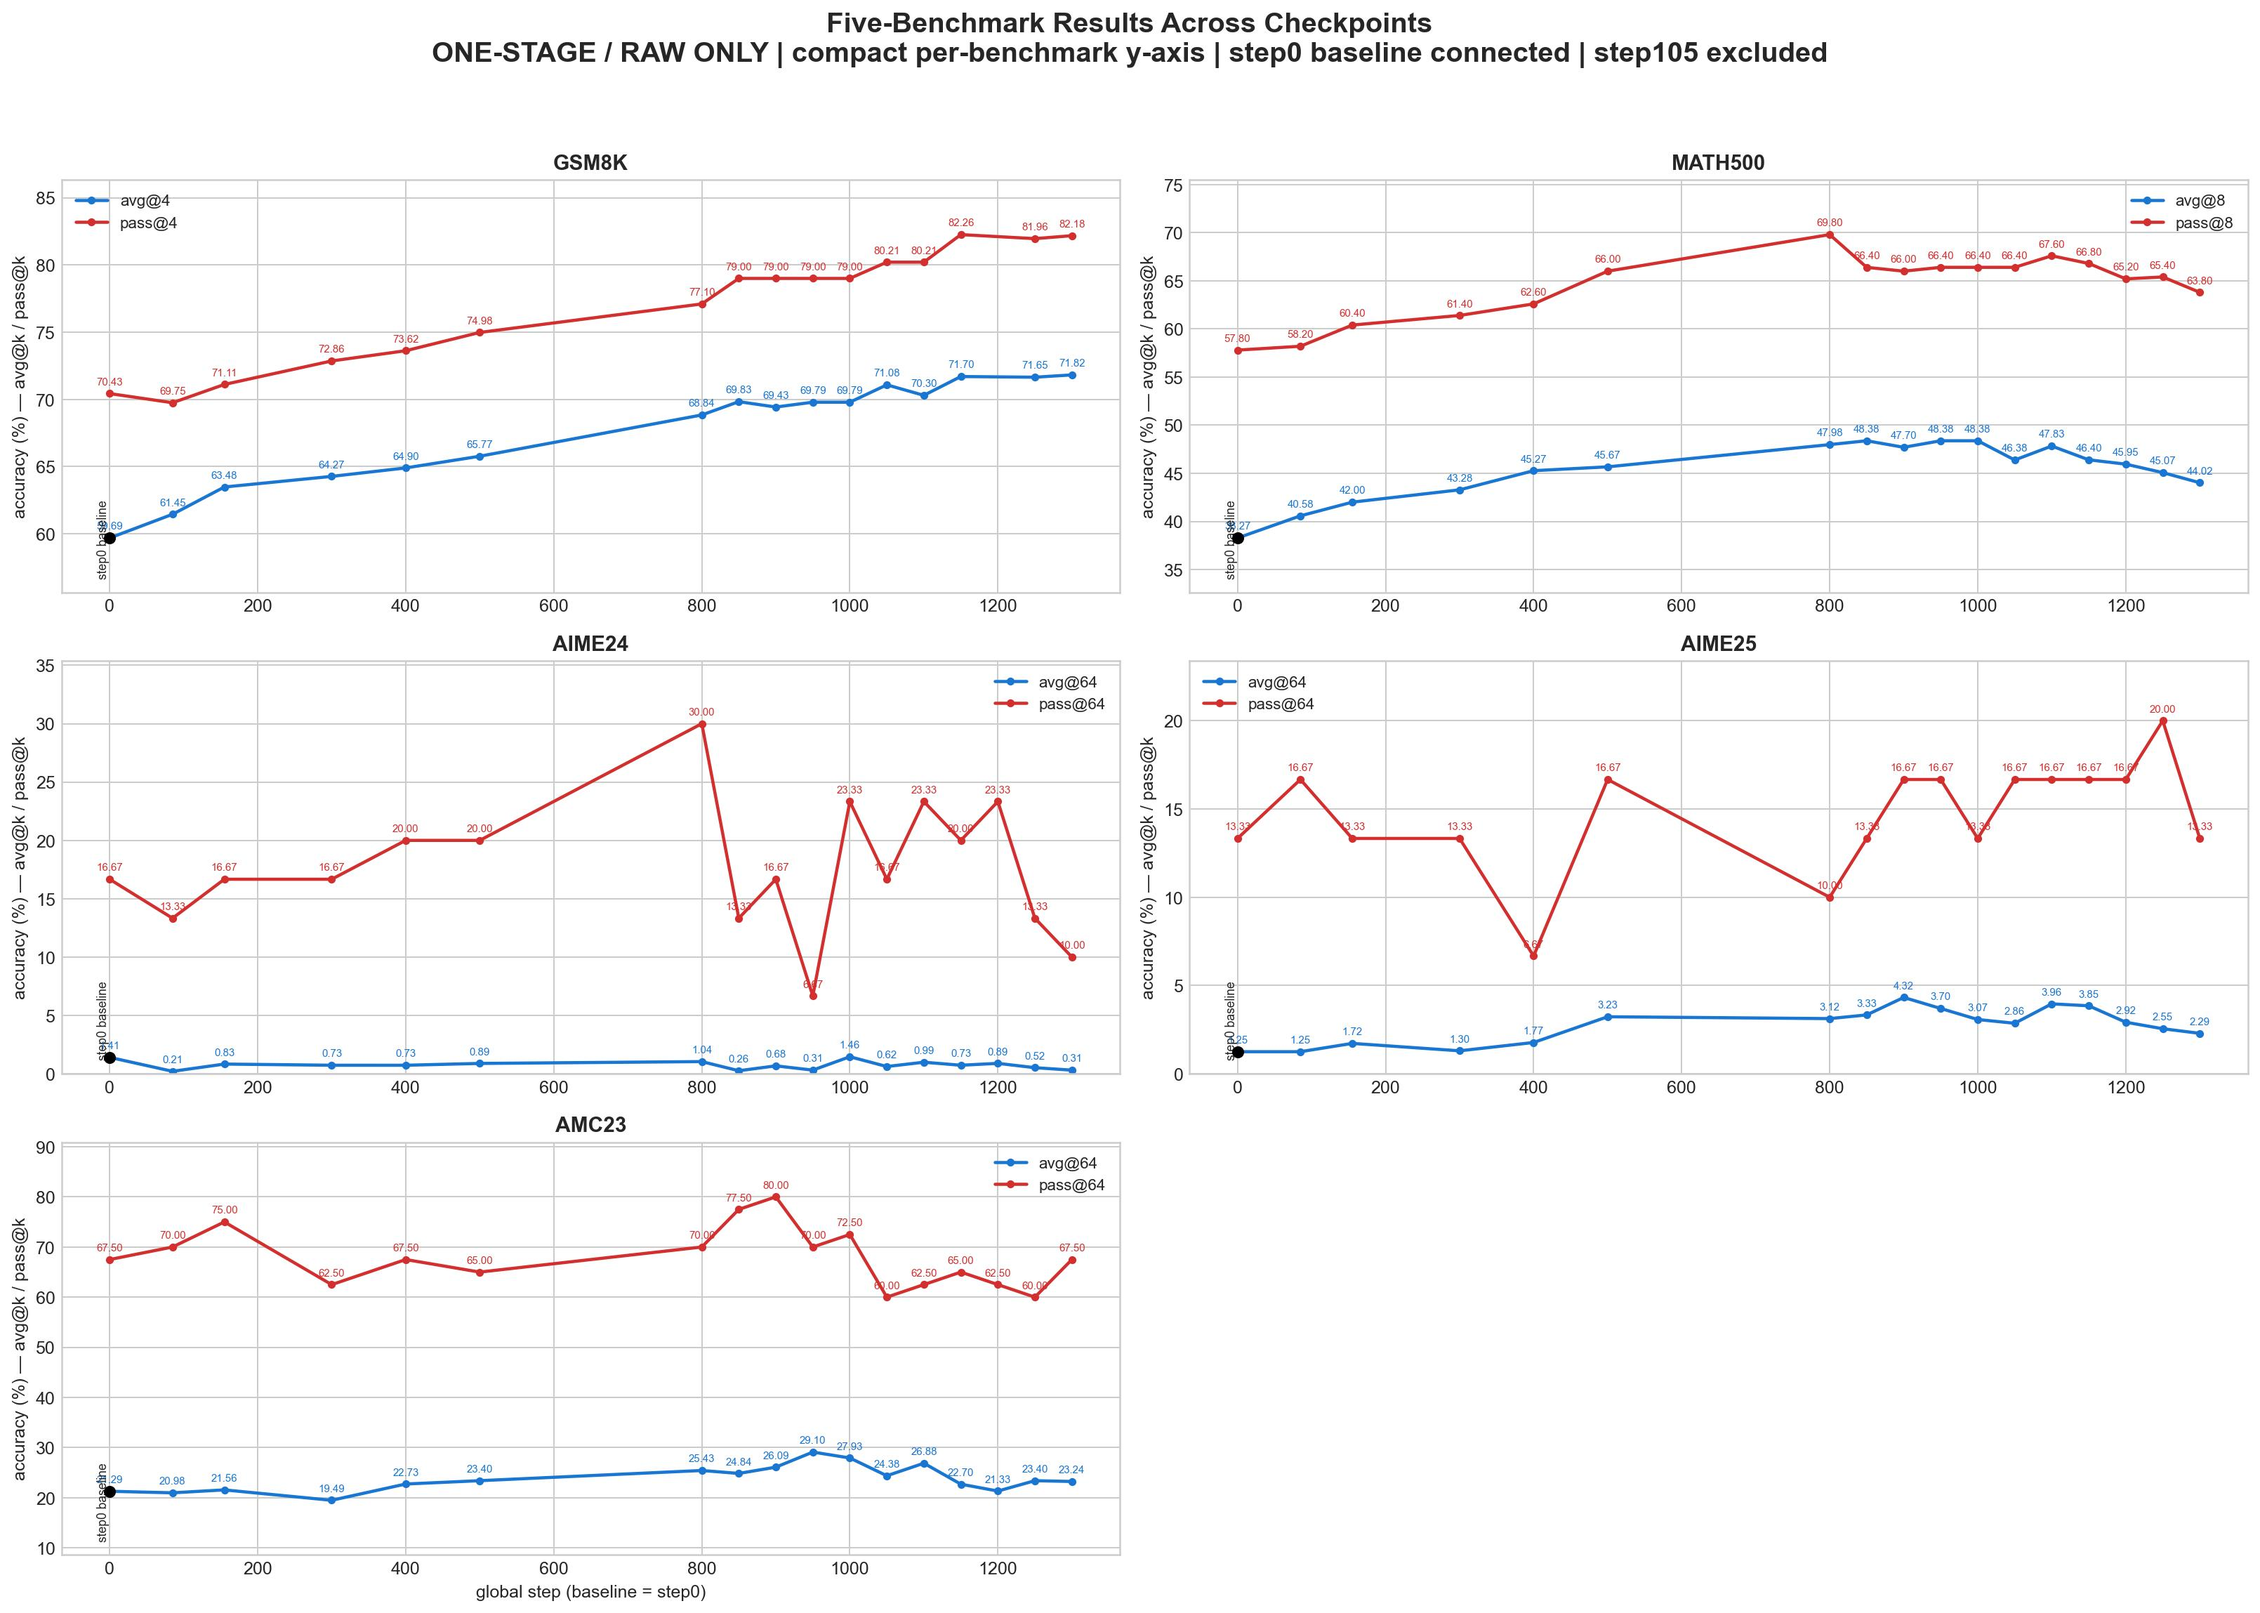
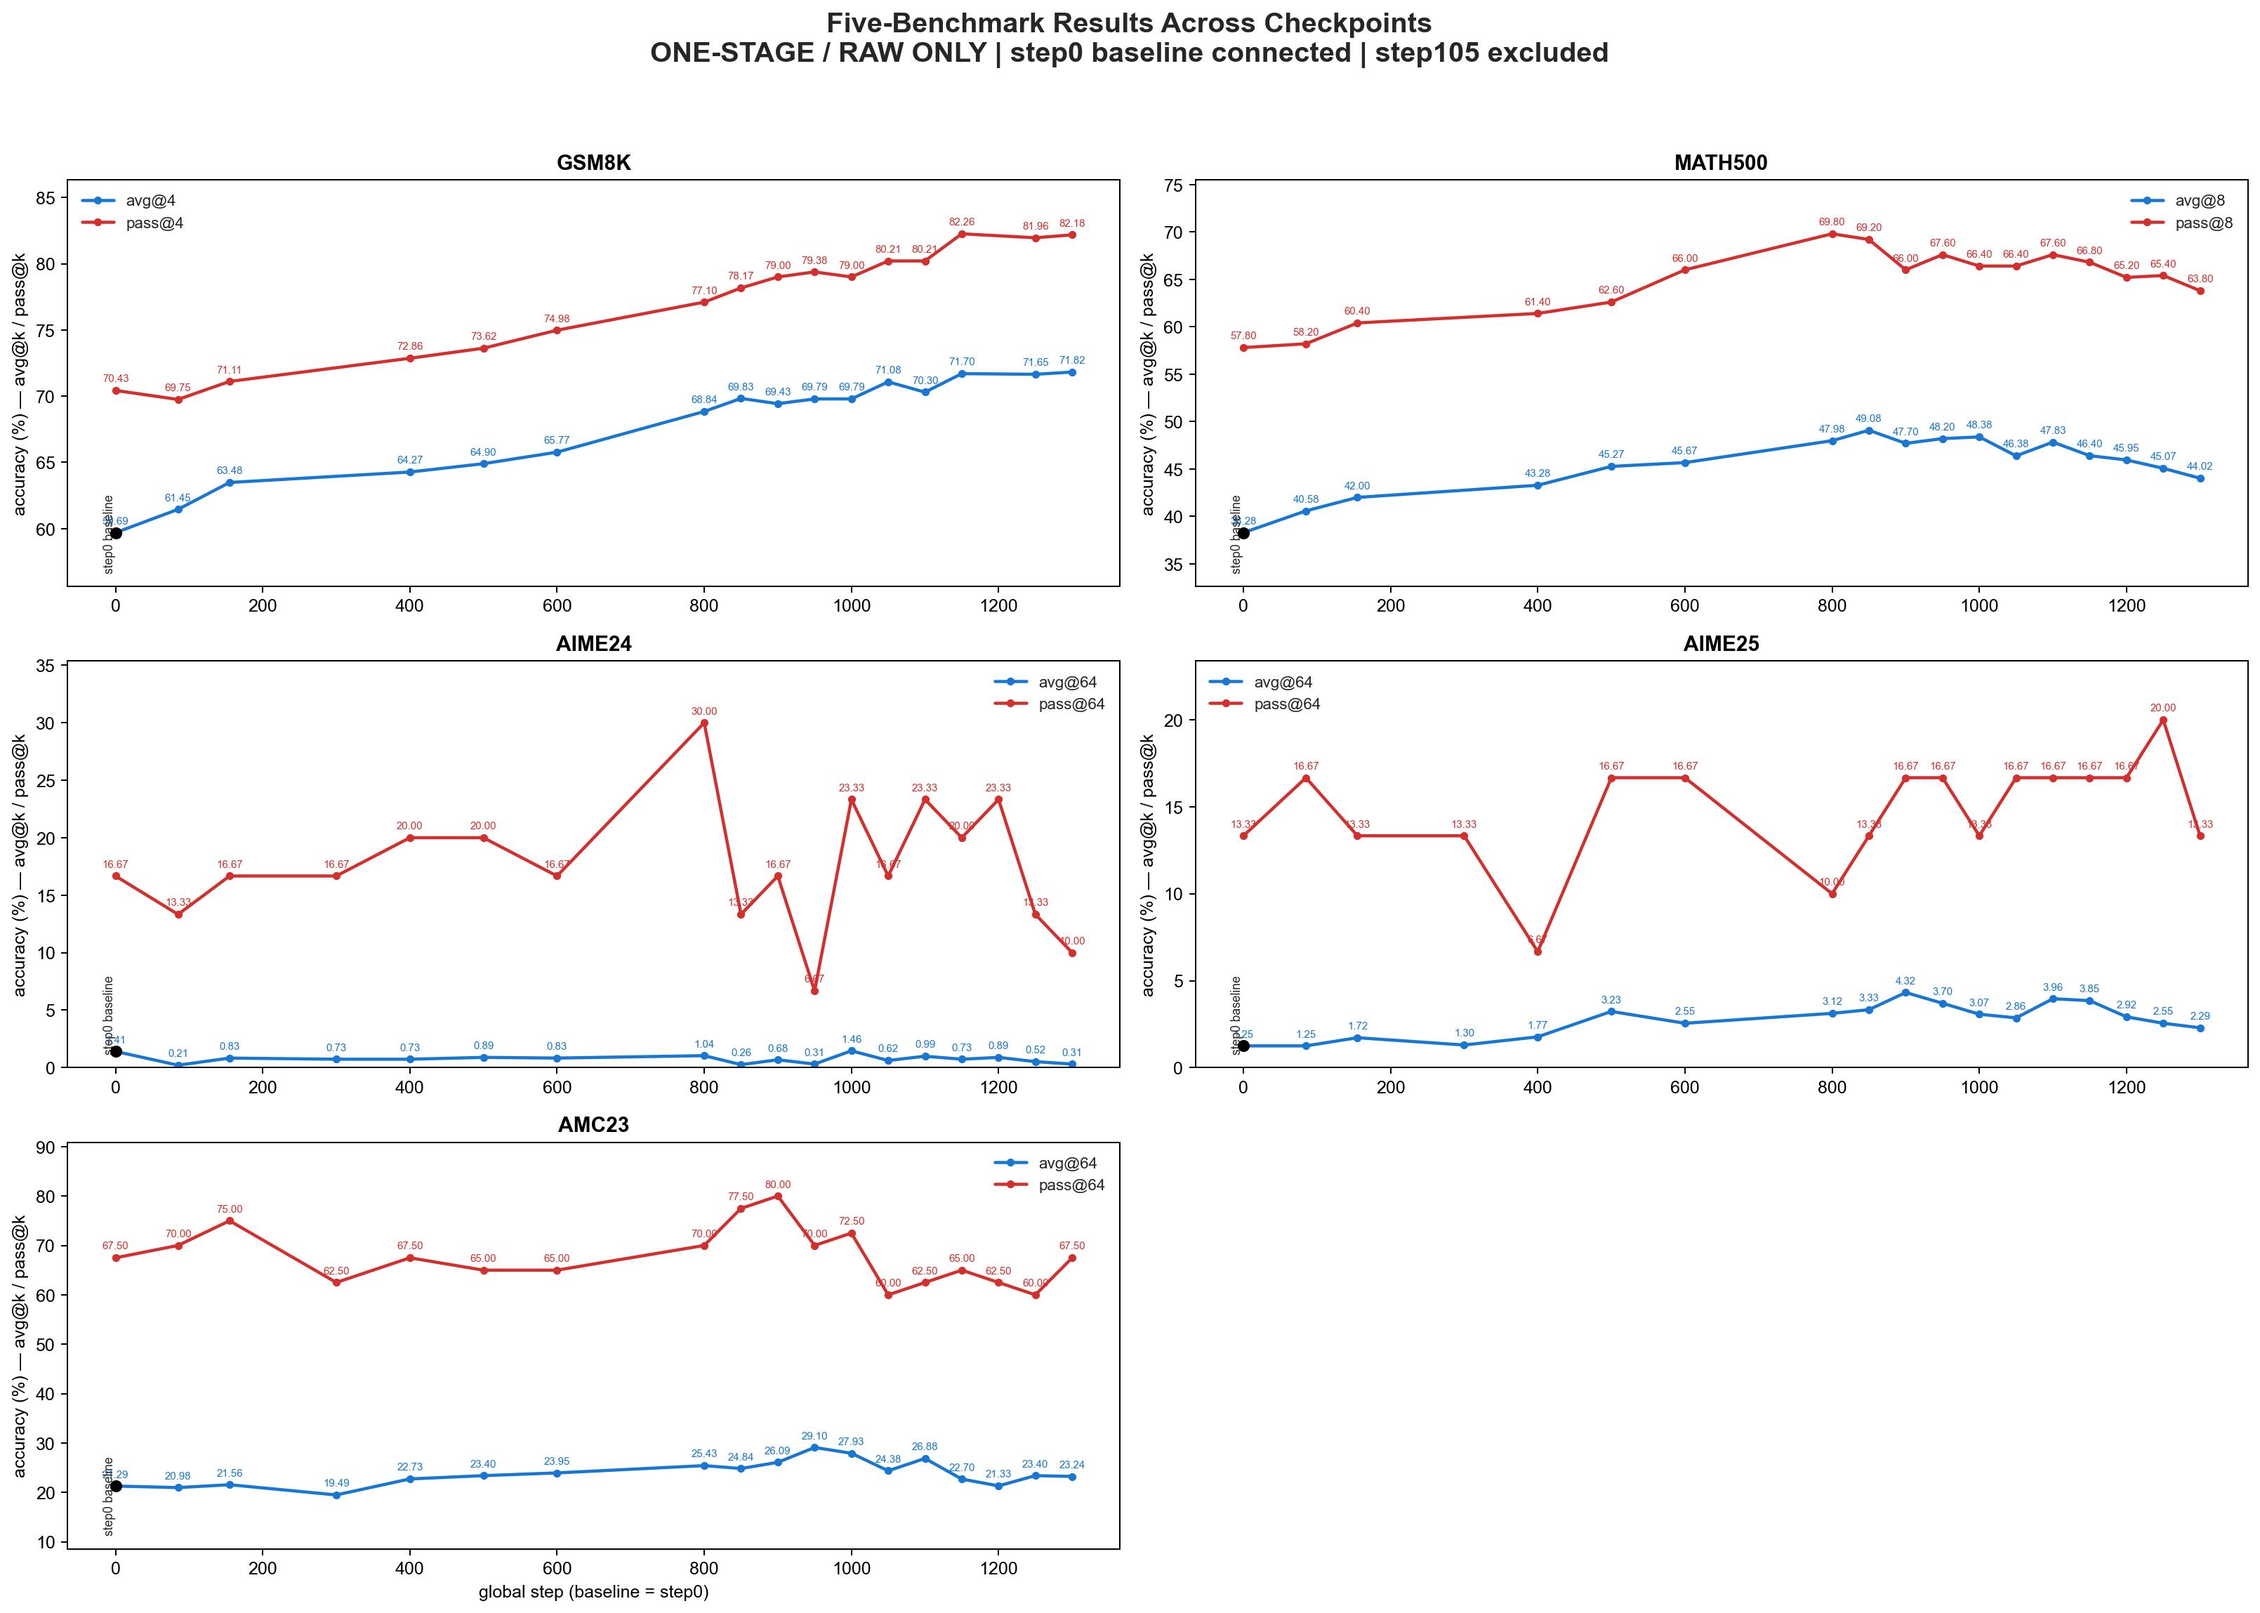
Fix step600 benchmark alignment and README embeds

diff --git a/results/benchmark_results_one_stage.md b/results/benchmark_results_one_stage.md
@@ -7,10 +7,10 @@ This chart uses the one-stage/raw generation results with the official flower pr
 | step0 (g1i baseline) | 59.69% / 70.43% | 38.28% / 57.80% | 1.41% / 16.67% | 1.25% / 13.33% | 21.29% / 67.50% |
 | step85 | 61.45% / 69.75% | 40.58% / 58.20% | 0.21% / 13.33% | 1.25% / 16.67% | 20.98% / 70.00% |
 | step155 | 63.48% / 71.11% | 42.00% / 60.40% | 0.83% / 16.67% | 1.72% / 13.33% | 21.56% / 75.00% |
-| step300 | 64.27% / 72.86% | 43.28% / 61.40% | 0.73% / 16.67% | 1.30% / 13.33% | 19.49% / 62.50% |
-| step400 | 64.90% / 73.62% | 45.27% / 62.60% | 0.73% / 20.00% | 1.77% / 6.67% | 22.73% / 67.50% |
-| step500 | 65.77% / 74.98% | 45.67% / 66.00% | 0.89% / 20.00% | 3.23% / 16.67% | 23.40% / 65.00% |
-| step600 | — | — | 0.83% / 16.67% | 2.55% / 16.67% | 23.95% / 65.00% |
+| step300 | — | — | 0.73% / 16.67% | 1.30% / 13.33% | 19.49% / 62.50% |
+| step400 | 64.27% / 72.86% | 43.28% / 61.40% | 0.73% / 20.00% | 1.77% / 6.67% | 22.73% / 67.50% |
+| step500 | 64.90% / 73.62% | 45.27% / 62.60% | 0.89% / 20.00% | 3.23% / 16.67% | 23.40% / 65.00% |
+| step600 | 65.77% / 74.98% | 45.67% / 66.00% | 0.83% / 16.67% | 2.55% / 16.67% | 23.95% / 65.00% |
 | step800 | 68.84% / 77.10% | 47.98% / 69.80% | 1.04% / 30.00% | 3.12% / 10.00% | 25.43% / 70.00% |
 | step850 | 69.83% / 78.17% | 49.08% / 69.20% | 0.26% / 13.33% | 3.33% / 13.33% | 24.84% / 77.50% |
 | step900 | 69.43% / 79.00% | 47.70% / 66.00% | 0.68% / 16.67% | 4.32% / 16.67% | 26.09% / 80.00% |
